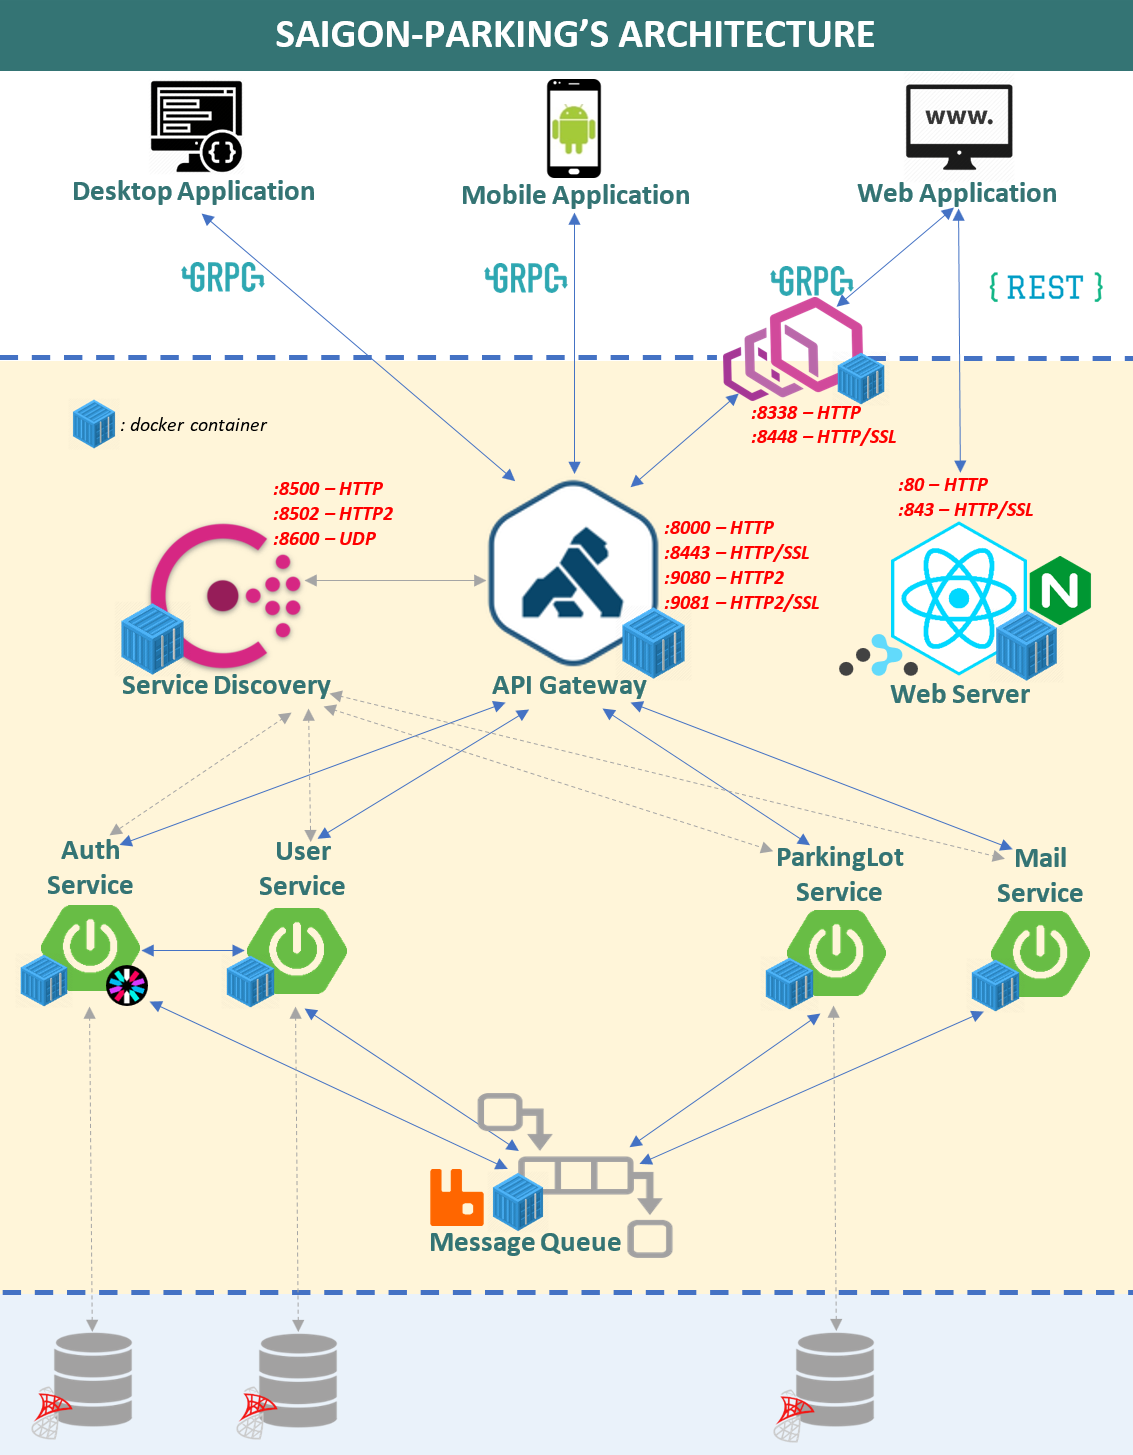
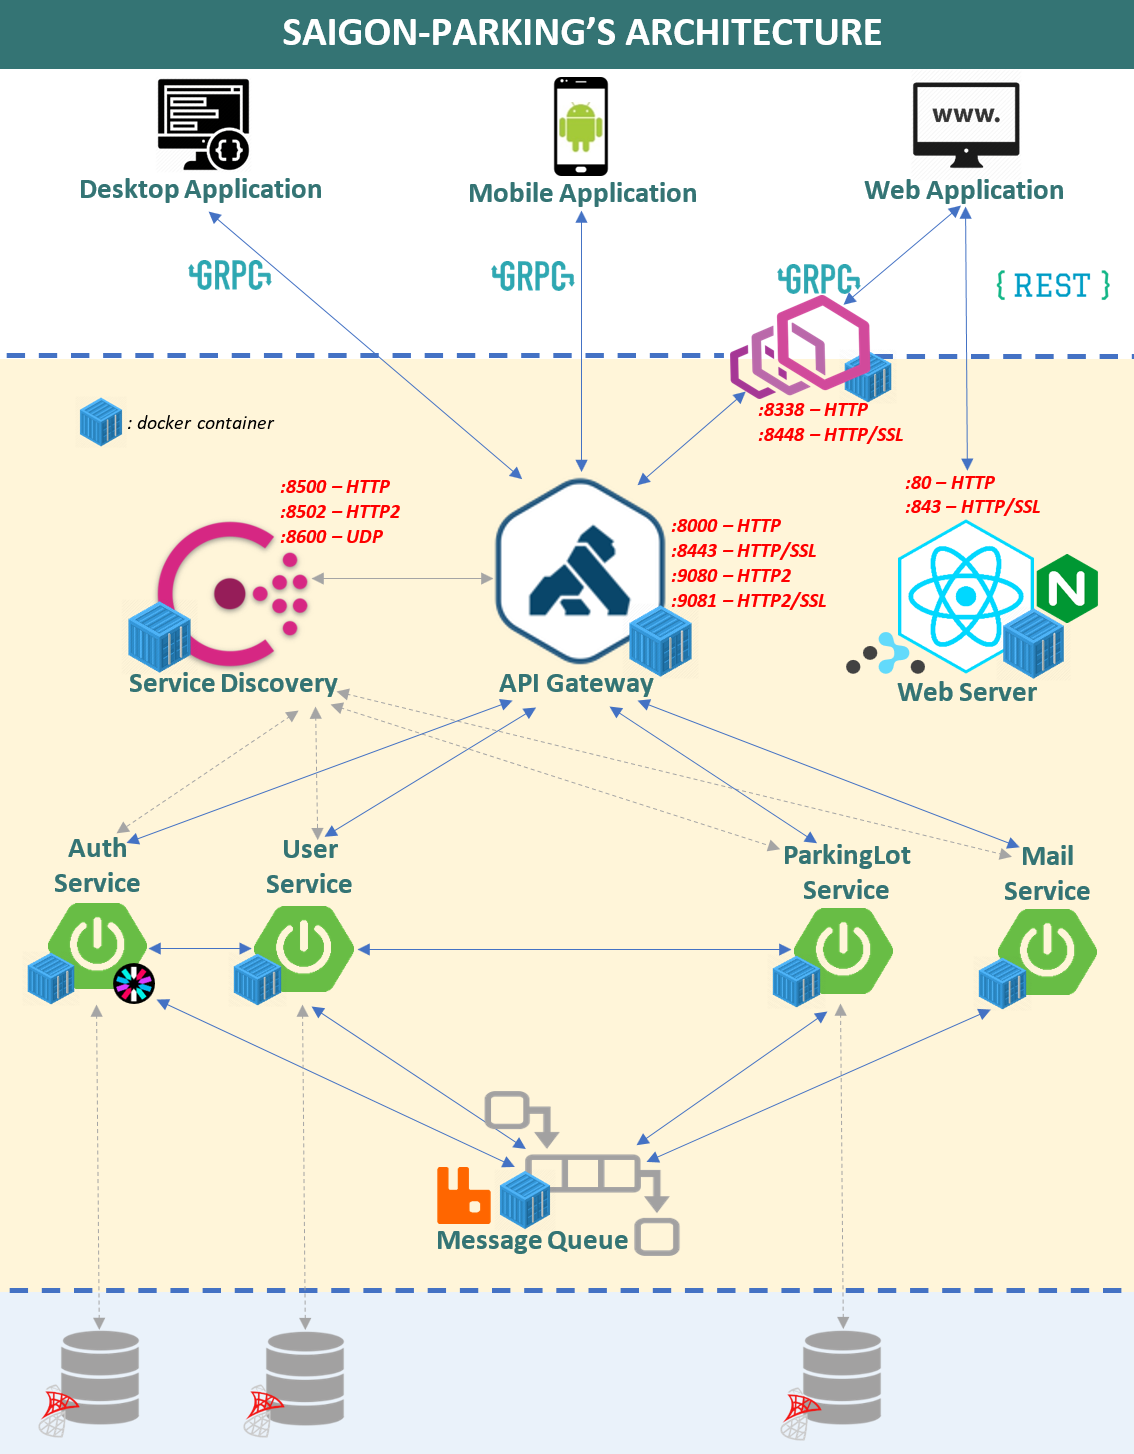
[SERVER] update architecture + upgrade version

diff --git a/README.md b/README.md
@@ -7,7 +7,7 @@
 /\__/ /| (_| || || (_| || (_) || | | |  | |   | (_| || |   |   < | || | | || (_| |   |_/ \_________/ \___|
 \____/  \__,_||_| \__, | \___/ |_| |_|  \_|    \__,_||_|   |_|\_\|_||_| |_| \__, | ____\_/_________\_/_____
                    __/ |                                                     __/ |
-                  |___/                                                     |___/   v2.0.1 - ©Copyright 2020
+                  |___/                                                     |___/   v2.1 - ©Copyright 2020
 </pre>
 #Project's members:
 <h6>1. 1653005 - Vu Tuong Bach - 1653005@student.hcmus.edu.vn</h6>
